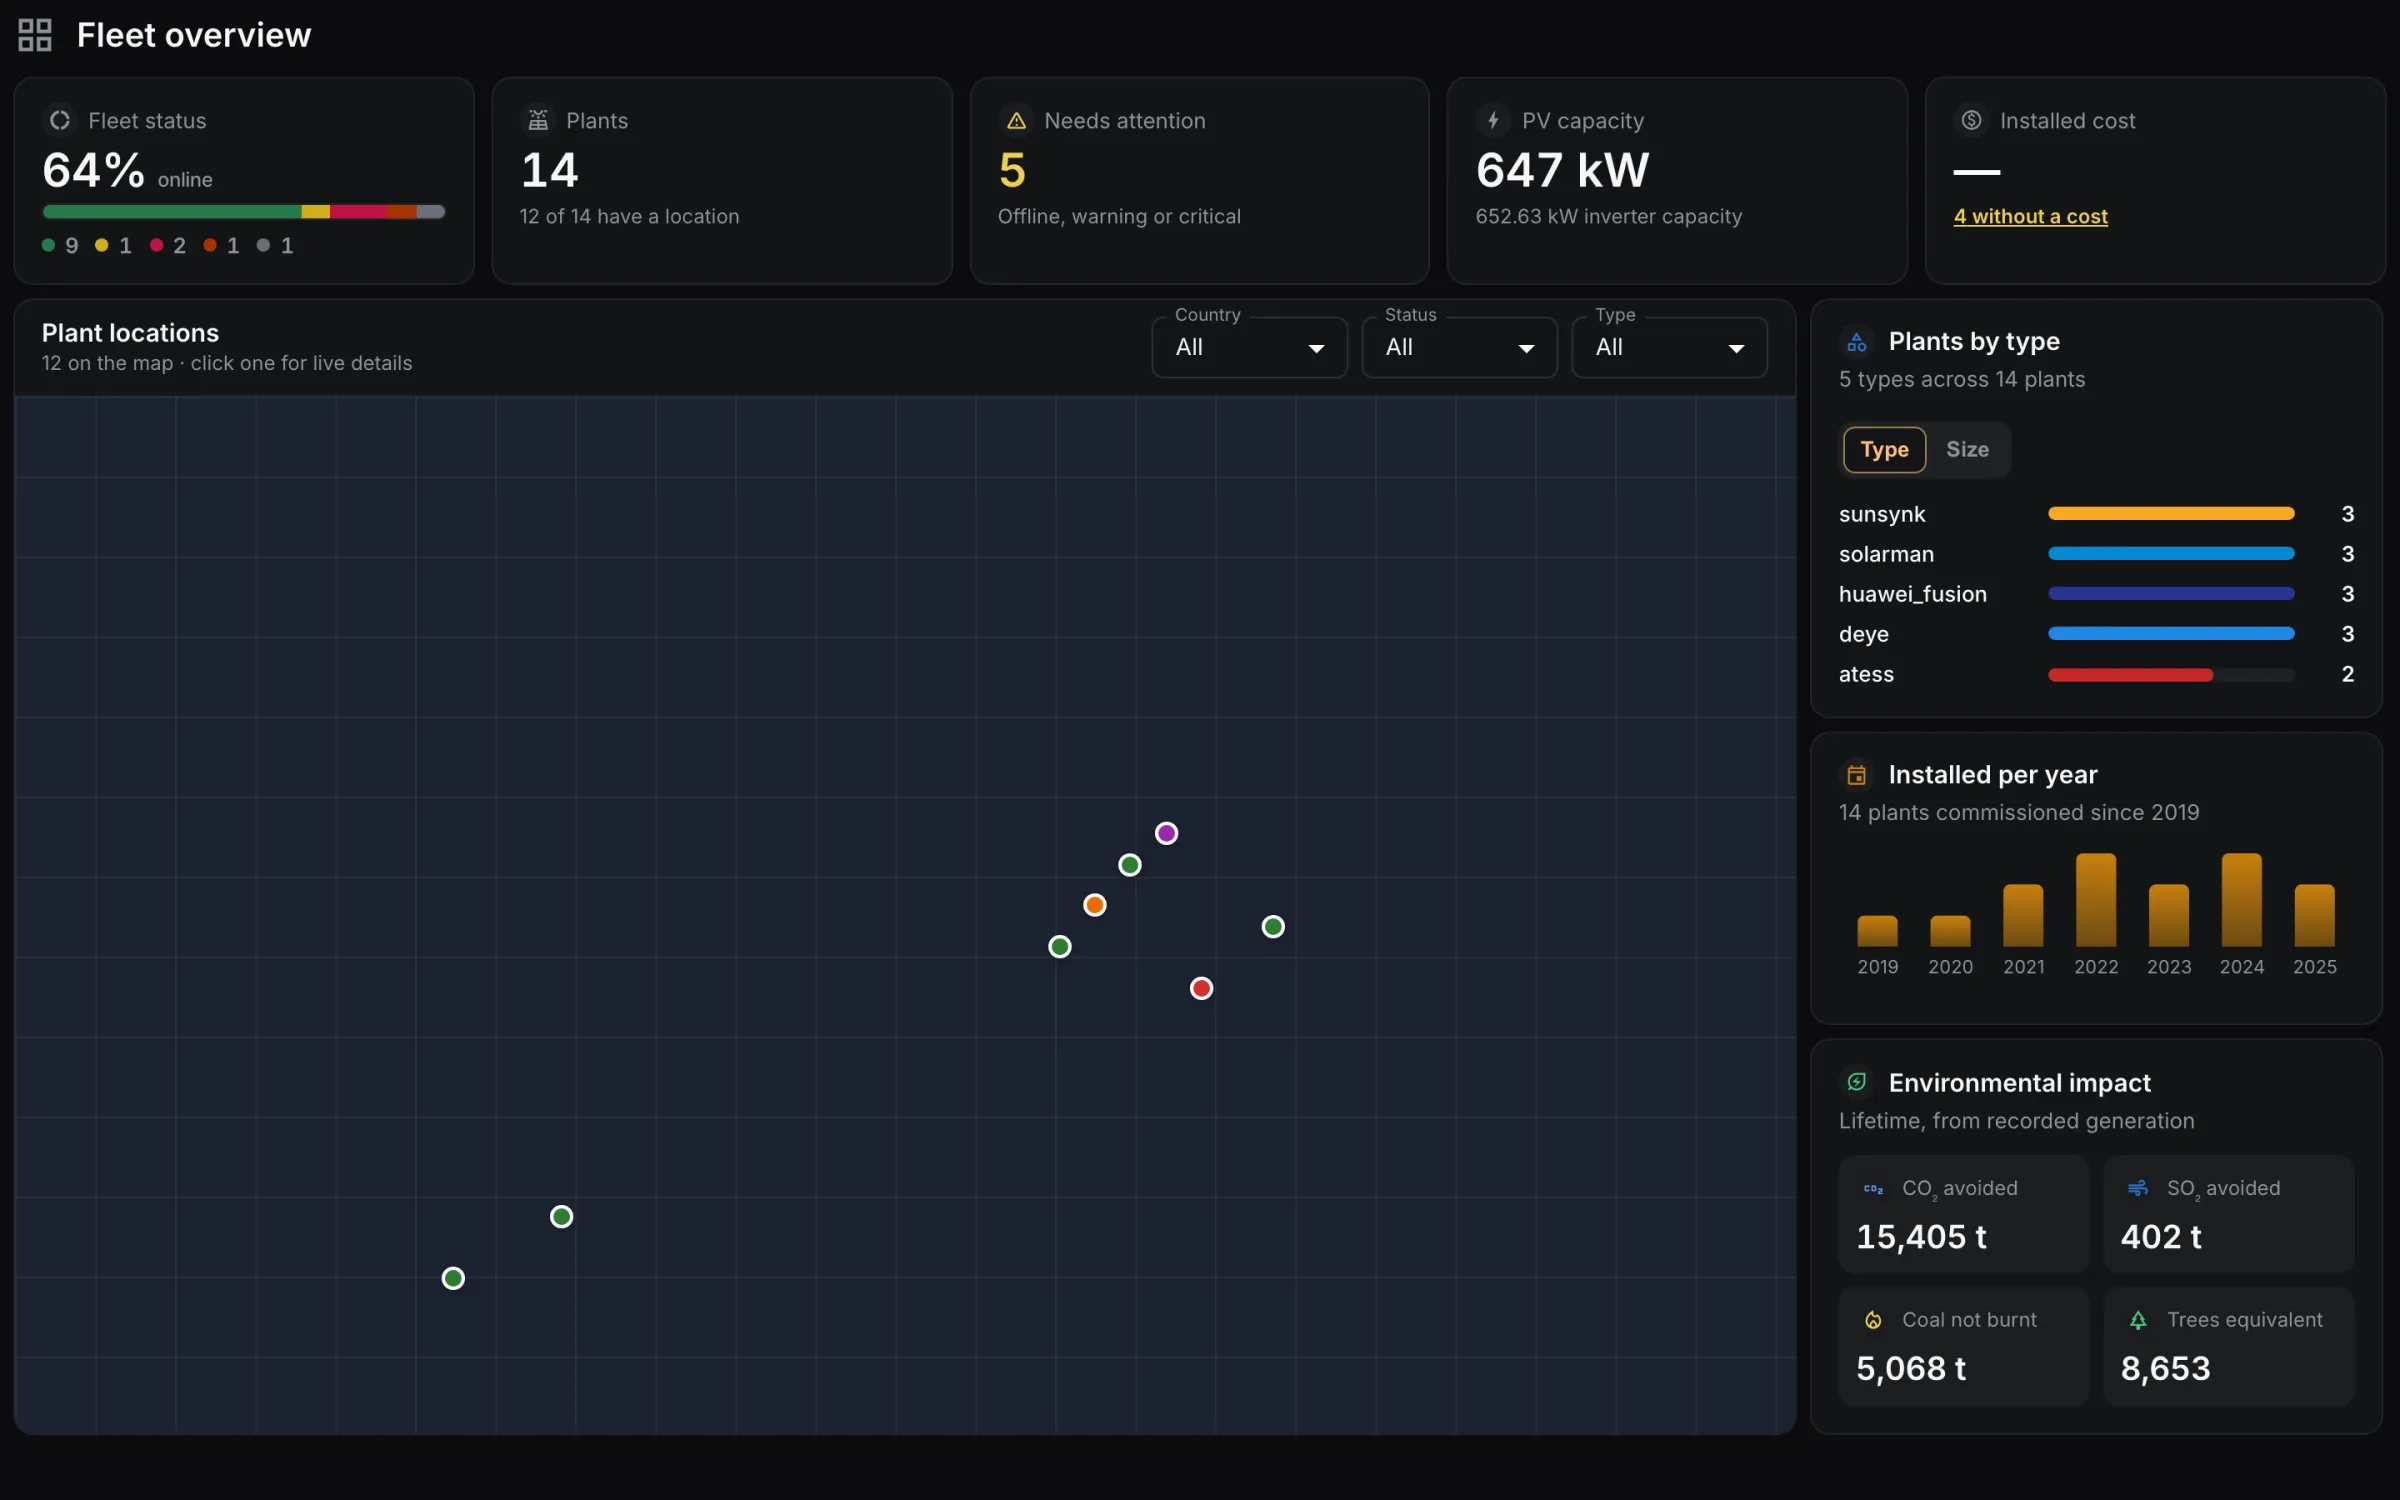
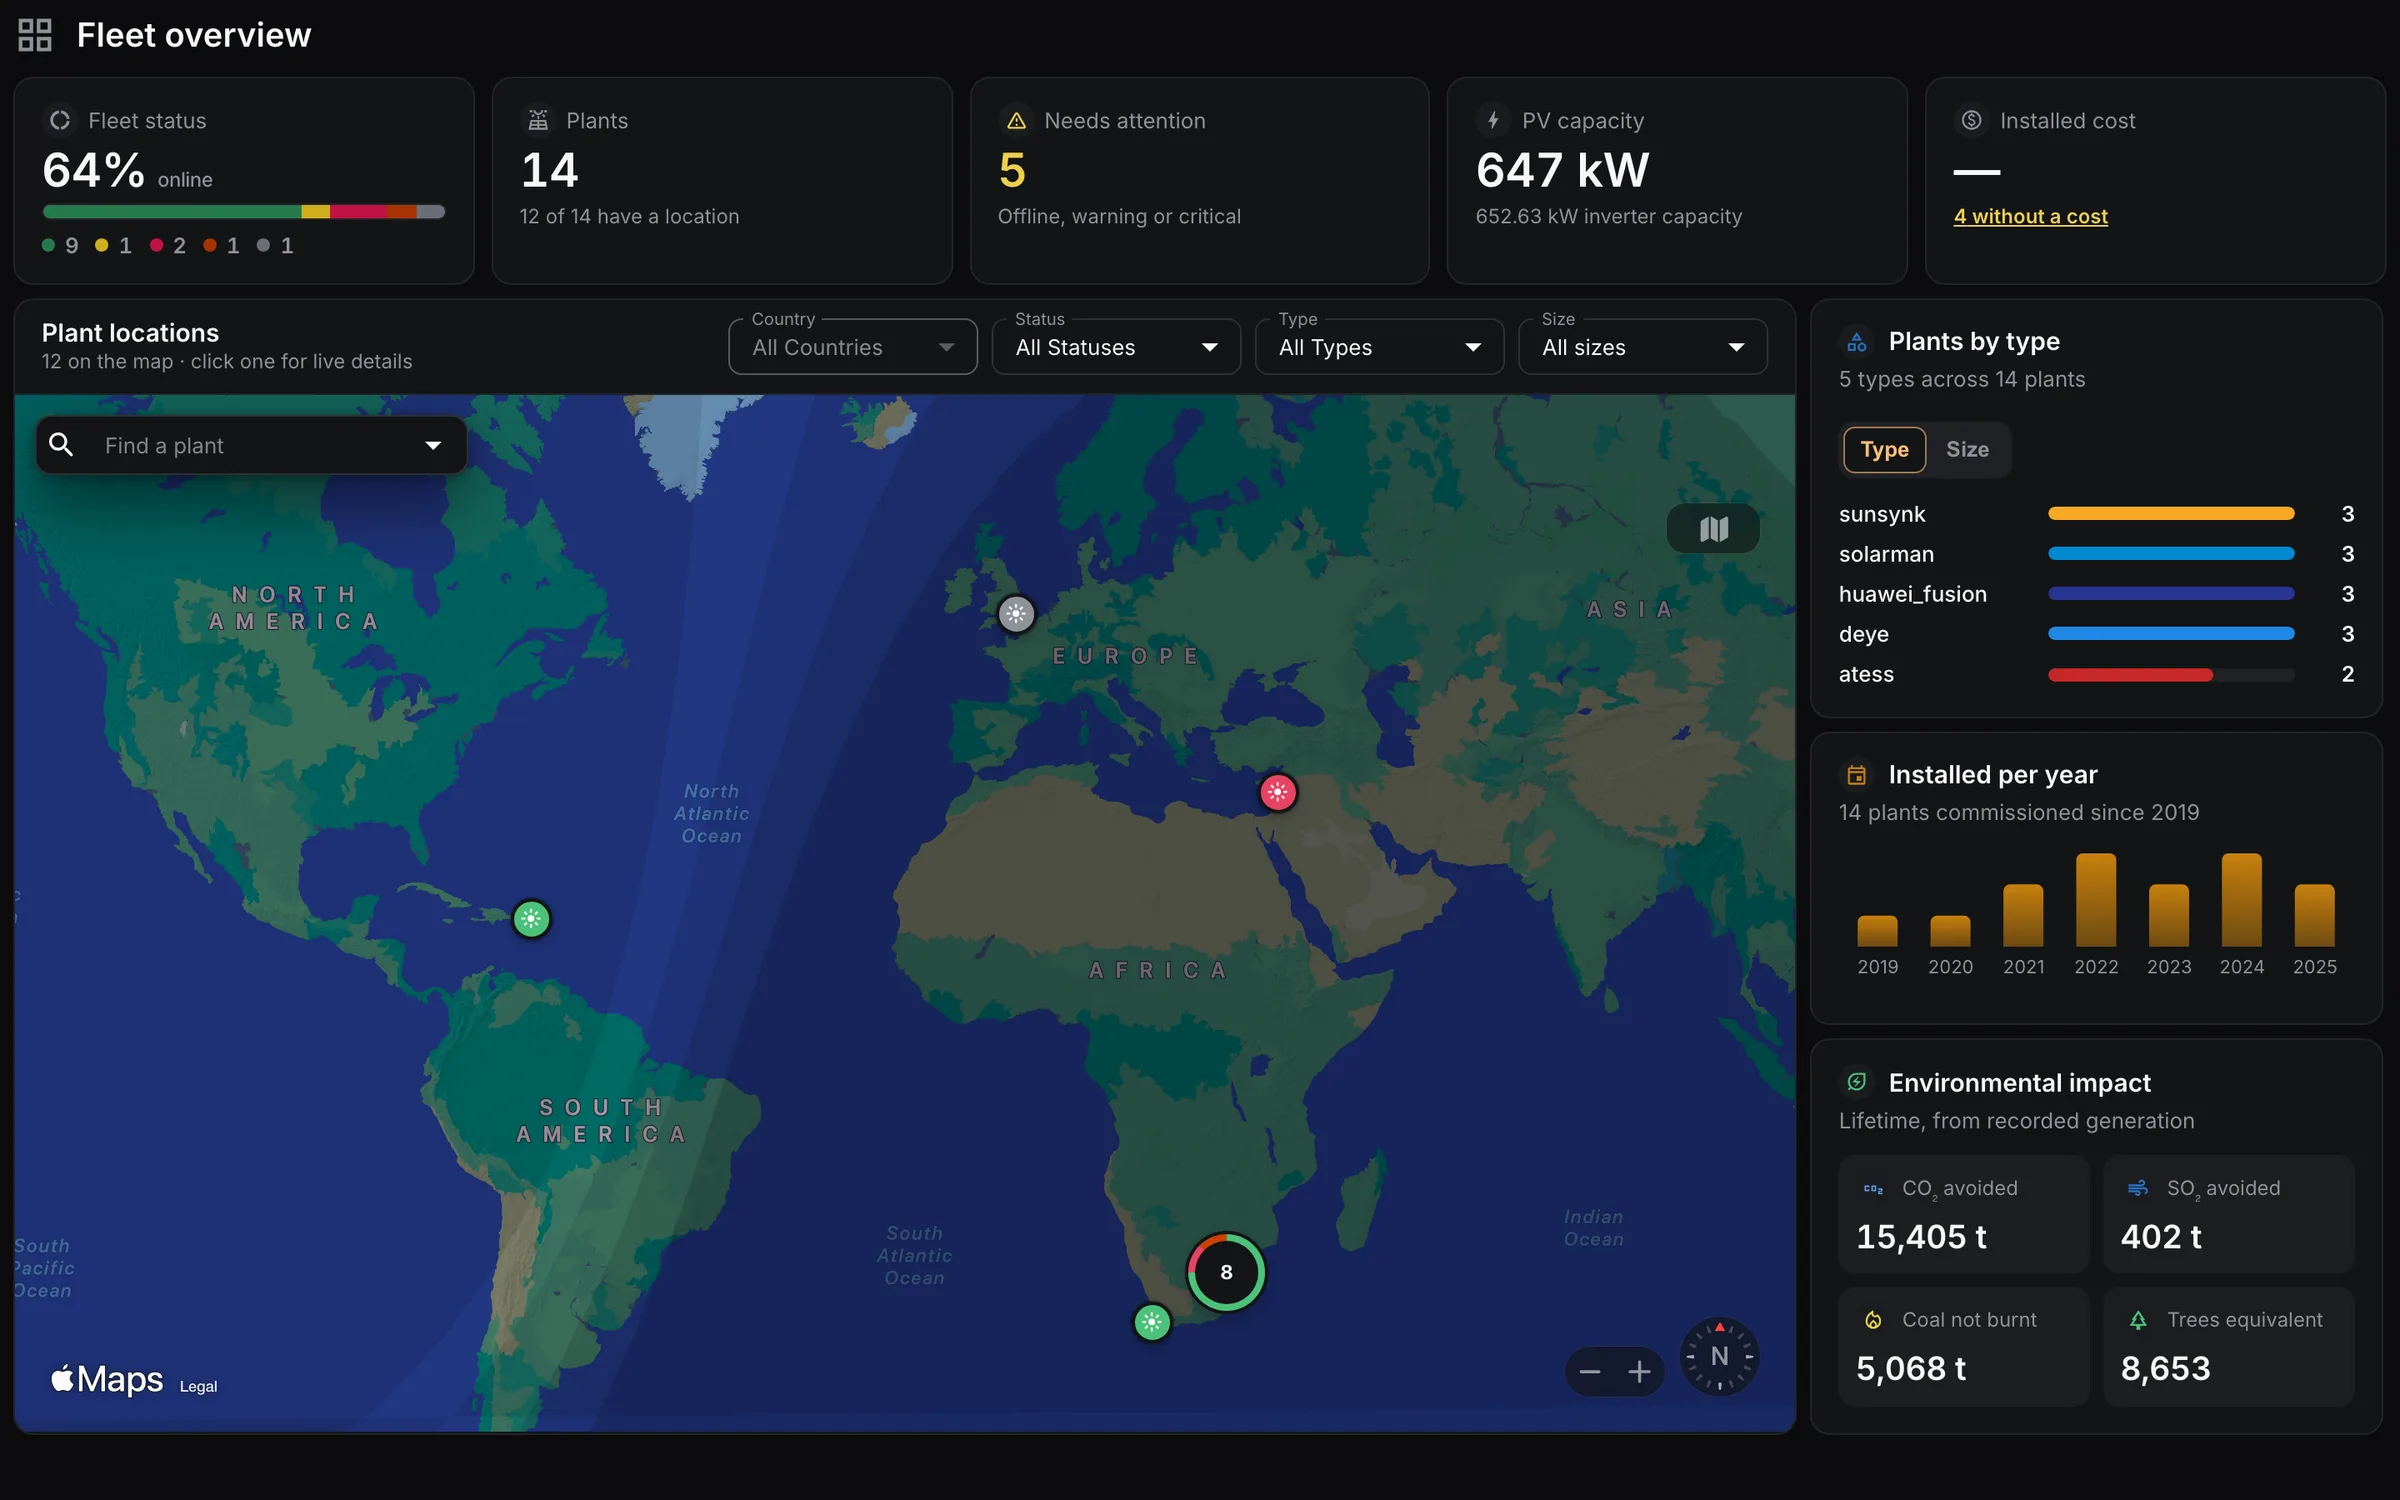
Update brand assets and integration documentation
- Replaced the Solarman logo from JPG to SVG format for improved scalability and quality.
- Updated the logo dimensions for both Solarman and FoxESS in the integration markdown files and brand data.
- Removed the outdated Solarman JPG file from the project.
- Made minor adjustments to the FAQ content on the commercial page for clarity.

diff --git a/src/data/brands.ts b/src/data/brands.ts
@@ -23,10 +23,9 @@ export const BRANDS: Brand[] = [
   {
     name: 'Solarman',
     slug: 'solarman',
-    logo: '/img/brands/solarman.jpg',
-    width: 600,
-    height: 400,
-    tall: true,
+    logo: '/img/brands/solarman.svg',
+    width: 1037,
+    height: 235,
   },
   { name: 'Solis', slug: 'solis', logo: '/img/brands/solis.png', width: 166, height: 60 },
   {
@@ -43,7 +42,13 @@ export const BRANDS: Brand[] = [
     width: 120,
     height: 36,
   },
-  { name: 'FoxESS', slug: 'foxess', logo: '/img/brands/foxess.png', width: 320, height: 320 },
+  {
+    name: 'FoxESS',
+    slug: 'foxess',
+    logo: '/img/brands/foxess.png',
+    width: 570,
+    height: 320,
+  },
   { name: 'GoodWe', slug: 'goodwe', logo: '/img/brands/goodwe.svg', width: 120, height: 36 },
   { name: 'Growatt', slug: 'growatt', logo: '/img/brands/growatt.png', width: 182, height: 31 },
   { name: 'Sungrow', slug: 'sungrow', logo: '/img/brands/sungrow.svg', width: 120, height: 36 },

diff --git a/src/content/integrations/solarman.md b/src/content/integrations/solarman.md
@@ -1,9 +1,8 @@
 ---
 name: Solarman
-logo: /img/brands/solarman.jpg
-logoWidth: 600
-logoHeight: 400
-logoTall: true
+logo: /img/brands/solarman.svg
+logoWidth: 1037
+logoHeight: 235
 answer: "PVBiz reads your plant's solar, load, battery and grid figures from Solarman about every five minutes and refreshes energy totals hourly, through a read-only share."
 description: Solarman monitoring with PVBiz. Share your plant with the PVBiz account from the Solarman Sharing menu for live flow, alerts, history and reports.
 connectionMethod: Share the plant with the PVBiz account shown in the app from the Solarman Sharing menu. Installers can instead add a Solarman login. Available to homeowners today (share only).

diff --git a/src/content/integrations/foxess.md b/src/content/integrations/foxess.md
@@ -1,7 +1,7 @@
 ---
 name: FoxESS
 logo: /img/brands/foxess.png
-logoWidth: 320
+logoWidth: 570
 logoHeight: 320
 answer: "PVBiz reads your plant's solar strings, battery, load and grid figures from FoxESS Cloud about every five minutes, refreshes energy totals hourly and keeps 15-minute history, read-only."
 description: FoxESS monitoring with PVBiz. Share your plant with admin@pvbiz.co.za or add your own API key for live flow, battery and grid alerts and history.
